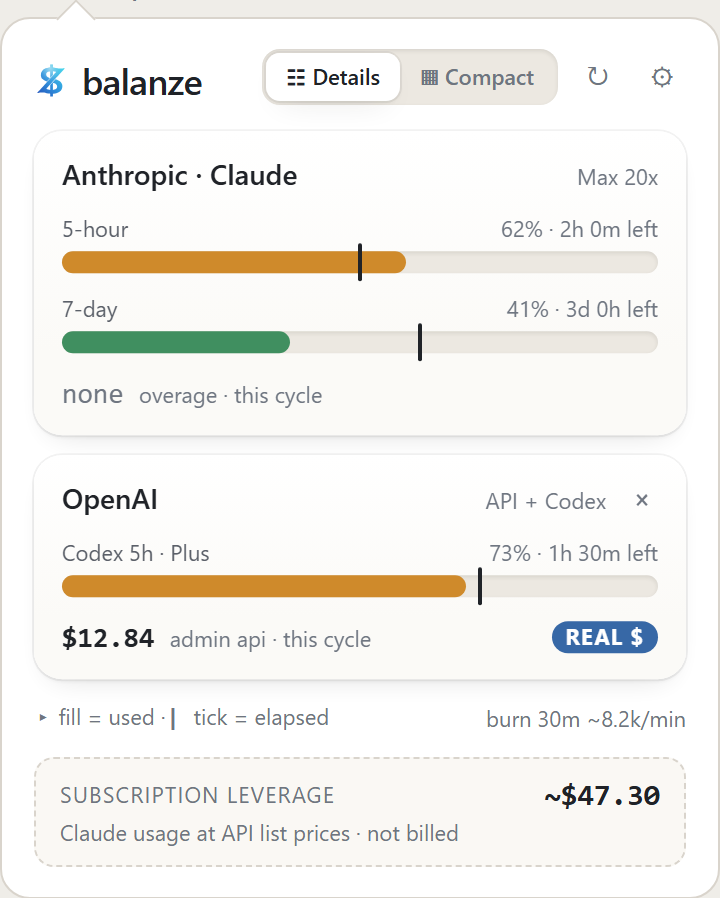
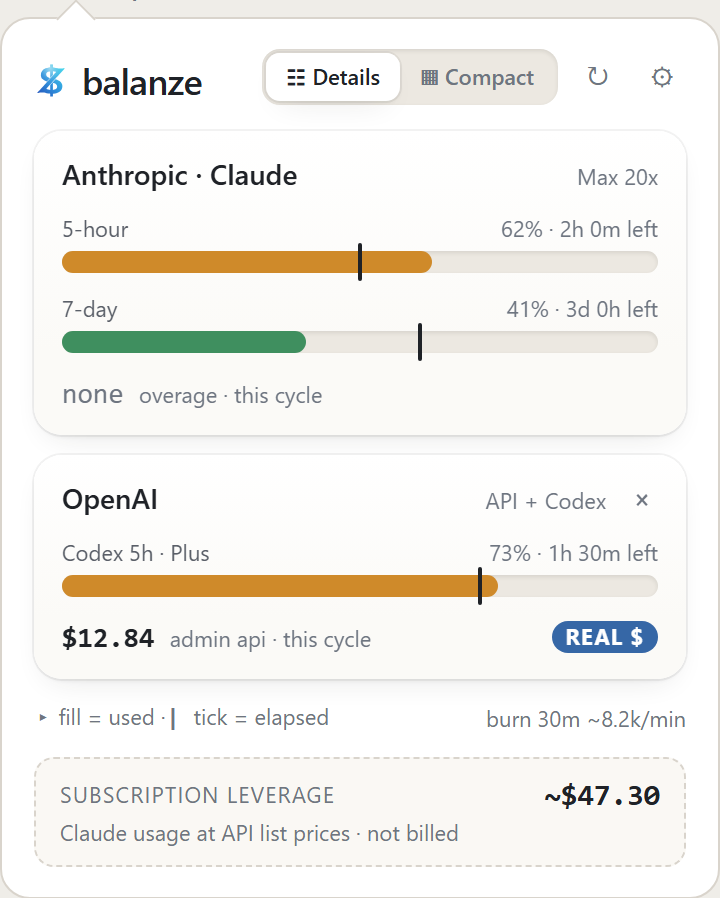
fix(docs): make guide captures deterministic and self-sufficient
Two review findings.

The capture used a raw page.screenshot, which leaves CSS animations running -
toHaveScreenshot disables them by default and gallery.spec.ts relies on that,
but this spec lost the protection. Freezing Date does not freeze an animation
timeline, so the cold-start skeleton's infinite pulse and the finite entrance
animations landed at whatever phase they happened to be in. Adding
animations: 'disabled' changed three of the nine PNGs, which is the defect
demonstrating itself.

The gallery scripts also assumed .svelte-kit/tsconfig.json already existed.
It is gitignored and only 'bun run check' generates it, so on a fresh clone the
advertised one-command refresh depended on having run something unrelated first.
Both gallery entry points now run svelte-kit sync, which is idempotent and
about a second.

Changed region(s): [[0.6417, 0.6236, 0.7028, 0.686], [0.55, 0.2806, 0.6111, 0.3118], [0.3972, 0.343, 0.4278, 0.4053]]

diff --git a/tests/visual/guide-shots.spec.ts b/tests/visual/guide-shots.spec.ts
@@ -76,6 +76,13 @@ test('capture guide screenshots', async ({ page }) => {
     const top = popBox.y - 8;
     await page.screenshot({
       path: `${OUT}/${slug}.png`,
+      // Raw page.screenshot leaves CSS animations running - unlike
+      // toHaveScreenshot, which disables them by default (gallery.spec.ts relies
+      // on that). Freezing Date does not freeze an animation timeline, so the
+      // cold-start skeleton's infinite opacity pulse (GridView.svelte) and the
+      // finite `rise` entrance animations would land at whatever phase they
+      // happened to be in, making regenerated PNGs differ for no real reason.
+      animations: 'disabled',
       clip: {
         x: popBox.x,
         y: top,

diff --git a/docs/superpowers/plans/2026-07-29-v0.5.2-legibility.md b/docs/superpowers/plans/2026-07-29-v0.5.2-legibility.md
@@ -772,6 +772,13 @@ test('capture guide screenshots', async ({ page }) => {
     const top = popBox.y - 8;
     await page.screenshot({
       path: `${OUT}/${slug}.png`,
+      // Raw page.screenshot leaves CSS animations running - unlike
+      // toHaveScreenshot, which disables them by default (gallery.spec.ts relies
+      // on that). Freezing Date does not freeze an animation timeline, so the
+      // cold-start skeleton's infinite opacity pulse (GridView.svelte) and the
+      // finite `rise` entrance animations would land at whatever phase they
+      // happened to be in, making regenerated PNGs differ for no real reason.
+      animations: 'disabled',
       clip: {
         x: popBox.x,
         y: top,
